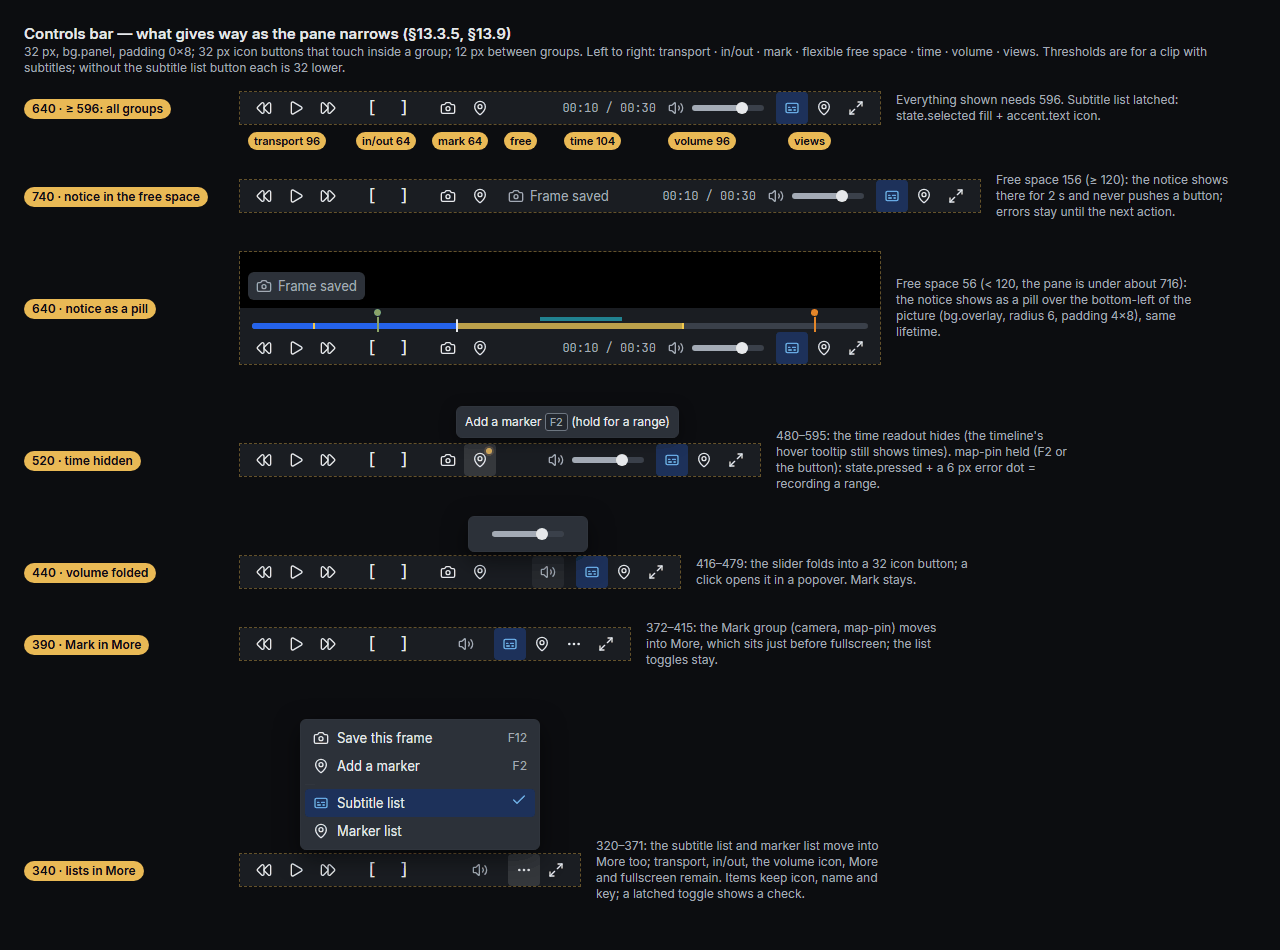
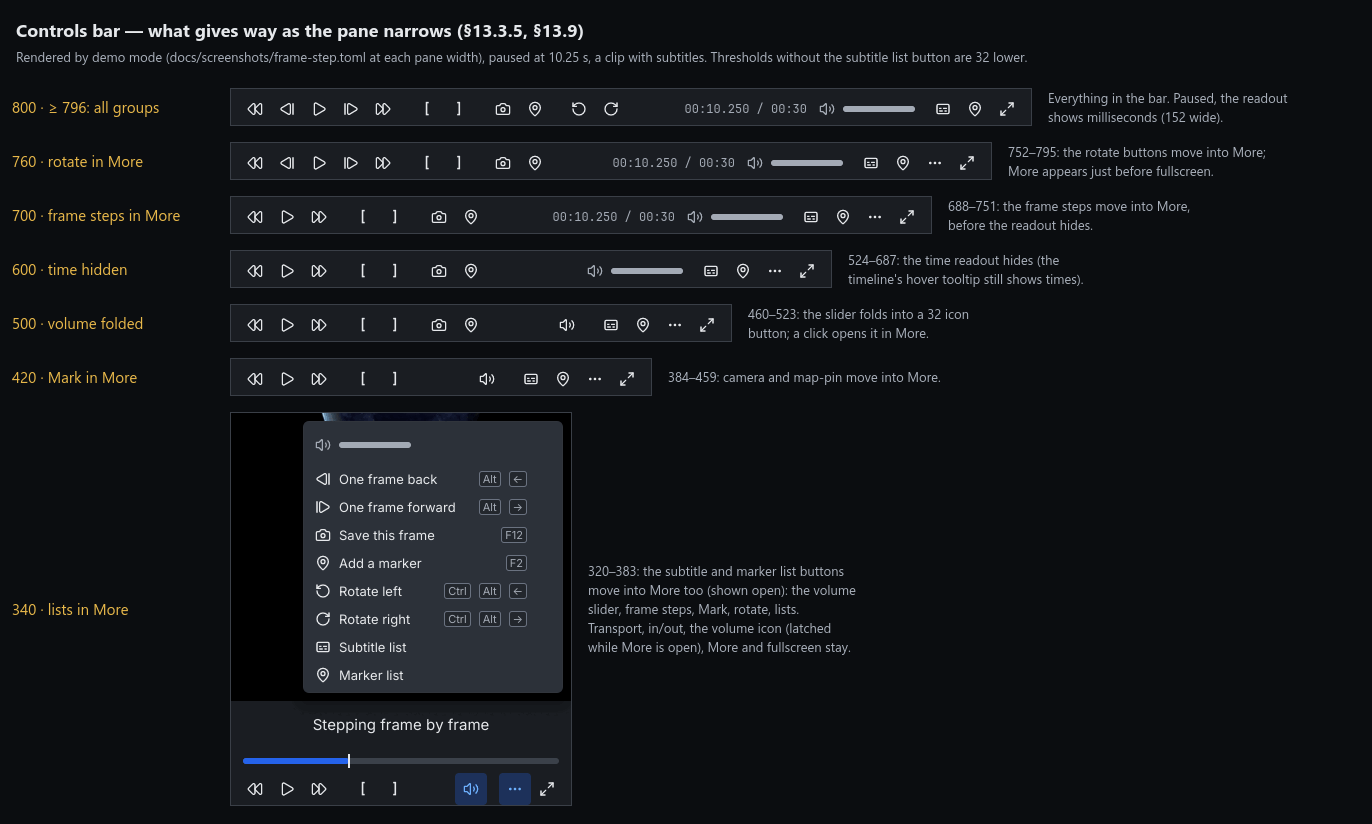
Frame step review round 2: readout fits hours, exact stepped frames
- The time readout is 152 wide: the longest it shows, a clip of hours
  paused (`1:02:05.250 / 1:30:00`), fits; a test pins it and the fold
  widths move by 24.
- The end of the clip sets the playhead, so `]` and the readout take where
  it really ended.
- A frame a step event showed counts as starting where it says, so a step
  back from it is one backward seek, not two.
- Design system: the controls bar image is rendered by demo mode at each
  fold step; Alt+arrows belong to frame steps (#62's key is open); the step
  icons are in the icon table.

diff --git a/src/features/media_viewer/video/state.rs b/src/features/media_viewer/video/state.rs
@@ -71,6 +71,8 @@ impl RangePlay {
 struct PendingStep {
     from: ShownFrame,
     step: video_controls::FrameStep,
+    /// Sent as a step event: the frame it shows starts where it says.
+    by_step_event: bool,
     since: Instant,
 }
 
@@ -141,6 +143,9 @@ pub struct VideoPlayerState {
     /// clears it. Kept here rather than read from the frame on screen: while the backward seek
     /// is still on its way there is none, and playing then would play the clip backward.
     reversed: bool,
+    /// The frame the last step event showed, as the sink reports it; see
+    /// [`frame_step::stepped_onto`].
+    stepped_onto: Option<ShownFrame>,
 }
 
 impl Default for VideoPlayerState {
@@ -175,6 +180,7 @@ impl Default for VideoPlayerState {
             loading_ticks: 0,
             frame_step: None,
             reversed: false,
+            stepped_onto: None,
         }
     }
 }
@@ -395,6 +401,11 @@ impl VideoPlayerState {
                 // The pipeline stays in Playing at the end; the next play restarts the stream.
                 self.play_until = None;
                 self.paused = true;
+                // The ticks stop with playback: the playhead is the end, not the last tick, so
+                // `]` and the readout take where the clip really ended.
+                if let Some(video) = self.current_video.as_ref() {
+                    self.position = query_position(video).unwrap_or_else(|| video.duration());
+                }
                 Task::done(Message::Controls(video_controls::Message::SetPlaying(
                     false,
                 )))
@@ -765,10 +776,14 @@ impl VideoPlayerState {
         if self.frame_step.is_some() {
             return paused;
         }
-        let Some(frame) = shown_frame(video) else {
+        let Some(mut frame) = shown_frame(video) else {
             return paused;
         };
-        let moved = match frame_step::step_target(frame, step, video.duration()) {
+        if self.stepped_onto == Some(frame) {
+            frame = frame_step::stepped_onto(frame);
+        }
+        let target = frame_step::step_target(frame, step, video.duration());
+        let moved = match target {
             StepTarget::Stay => return paused,
             StepTarget::NextBuffer => {
                 video.step_one_frame();
@@ -785,6 +800,7 @@ impl VideoPlayerState {
         self.frame_step = Some(PendingStep {
             from: frame,
             step,
+            by_step_event: target == StepTarget::NextBuffer,
             since: Instant::now(),
         });
         Task::batch([paused, moved])
@@ -814,6 +830,7 @@ impl VideoPlayerState {
             self.position = frame_step::frame_position(pending.from);
             return self.follow_cue(false);
         };
+        self.stepped_onto = pending.by_step_event.then_some(frame);
         self.position = frame_step::frame_position(frame);
         let follow = self.follow_cue(false);
         if frame_step::only_found_the_start(pending.from, frame) {

diff --git a/src/features/media_viewer/video/frame_step.rs b/src/features/media_viewer/video/frame_step.rs
@@ -72,6 +72,16 @@ pub fn step_target(frame: ShownFrame, step: FrameStep, clip: Duration) -> StepTa
     }
 }
 
+/// A frame a step event showed: its timestamp is its true start. The sink reports a segment
+/// starting there, as after a forward seek that may have clipped it, so it would read as
+/// inexact and a step back from it would first seek to find its start.
+pub fn stepped_onto(frame: ShownFrame) -> ShownFrame {
+    ShownFrame {
+        start_exact: true,
+        ..frame
+    }
+}
+
 /// Whether a step from `from` that showed `to` only found `from`'s true start (the first half
 /// of a step back): the same frame, so the step goes on.
 pub fn only_found_the_start(from: ShownFrame, to: ShownFrame) -> bool {
@@ -139,15 +149,16 @@ mod tests {
             })
         }
 
-        /// A step event from `frame`: the next frame, whole.
+        /// A step event from `frame`: the next frame, whole, reported with a segment starting
+        /// at it (so inexact), and marked exact the way the player does.
         fn next(&self, frame: ShownFrame) -> ShownFrame {
             let (start, end) = self.bounds(self.index_of(frame) + 1);
-            ShownFrame {
+            stepped_onto(ShownFrame {
                 start,
                 duration: Some(end - start),
-                start_exact: true,
+                start_exact: false,
                 reversed: false,
-            }
+            })
         }
 
         /// One step as the player takes it, including the second half of a step back.
@@ -270,6 +281,26 @@ mod tests {
         assert_eq!(
             step_target(reversed, FrameStep::Forward, clip),
             StepTarget::Forward(Duration::from_millis(1_040))
+        );
+    }
+
+    /// After a step forward, a step back is one backward seek, not two.
+    #[test]
+    fn back_after_a_step_forward_seeks_once() {
+        let clip = constant();
+        let shown = clip.next(clip.forward(clip.starts[3]));
+        assert_eq!(
+            step_target(shown, FrameStep::Back, clip.end),
+            StepTarget::Backward(clip.starts[4])
+        );
+        let reported = ShownFrame {
+            start_exact: false,
+            ..shown
+        };
+        assert_eq!(
+            step_target(reported, FrameStep::Back, clip.end),
+            StepTarget::Backward(clip.bounds(4).1),
+            "as the sink reports it, the frame would first be found again"
         );
     }
 

diff --git a/src/ui/tokens/region.rs b/src/ui/tokens/region.rs
@@ -46,9 +46,9 @@ pub const CAPTION_PADDING_Y: f32 = SPACE_S;
 pub const CAPTION_PADDING_X: f32 = 18.0;
 /// The volume slider.
 pub const VOLUME_WIDTH: f32 = 72.0;
-/// The time readout: a fixed width so it never moves. Fits `00:10.250 / 00:30` (paused, with
-/// milliseconds) and `1:02:05 / 1:30:00`: 17 mono characters.
-pub const TIME_READOUT_WIDTH: f32 = 128.0;
+/// The time readout: a fixed width so it never moves. Fits the longest it shows, a clip of hours
+/// paused (`1:02:05.250 / 1:30:00`): 21 mono characters, 151.2 px.
+pub const TIME_READOUT_WIDTH: f32 = 152.0;
 /// The notices' slot in the controls bar needs this much, otherwise they float over the picture.
 pub const NOTICE_SLOT_MIN_WIDTH: f32 = 120.0;
 /// A marker row's color dot.

diff --git a/src/features/video_controls/view.rs b/src/features/video_controls/view.rs
@@ -561,6 +561,18 @@ mod tests {
         assert_eq!(precise_clock(-1.0), "00:00.000");
     }
 
+    /// The longest readout, a clip of hours paused, fits the readout's fixed width.
+    #[test]
+    fn the_longest_readout_fits_its_width() {
+        let longest = format!("{} / {}", precise_clock(35_999.5), clock(35_999.0));
+        assert_eq!(longest, "9:59:59.500 / 9:59:59");
+        let width = longest.chars().count() as f32 * MONO_CHAR_WIDTH;
+        assert!(
+            width <= TIME_READOUT_WIDTH,
+            "{width} > {TIME_READOUT_WIDTH}"
+        );
+    }
+
     #[test]
     fn a_held_button_sends_its_press_and_release_from_more() {
         let [_, marker] = mark(true, false);

diff --git a/src/features/video_controls/fold.rs b/src/features/video_controls/fold.rs
@@ -155,7 +155,7 @@ mod tests {
     #[test]
     fn the_fold_widths_match_the_design_system() {
         let widths: Vec<f32> = Fold::steps().iter().map(|fold| fold.width(2)).collect();
-        assert_eq!(widths, [772.0, 728.0, 664.0, 524.0, 460.0, 384.0, 320.0]);
+        assert_eq!(widths, [796.0, 752.0, 688.0, 524.0, 460.0, 384.0, 320.0]);
     }
 
     #[test]

diff --git a/docs/design/design-system.md b/docs/design/design-system.md
@@ -329,6 +329,7 @@ destructive (BIR: "separate dangerous buttons with extra distance").
 | Today | Lucide | | Today | Lucide |
 |---|---|---|---|---|
 | ◀ ▶ (file) | `chevron-left` `chevron-right` | | ⏪ ⏩ | `rewind` `fast-forward` |
+| ⏮ ⏭ (frame steps, #162) | `step-back` `step-forward` | | | |
 | ⊙ | `locate-fixed` | | ▶ ⏸ | `play` `pause` |
 | 📂 | `folder-open` | | 📷 | `camera` |
 | ⚙ | `settings` | | 📍 | `map-pin` |
@@ -1068,7 +1069,7 @@ left to right, with the widths §13.9 folds by:
 | In/out (64) | text `[` "Set the in point `[`" · text `]` "Set the out point `]`" (text, as #44 says) |
 | Mark (64) | `camera` "Save this frame `F12`" · `map-pin` "Add a marker `F2` (hold for a range)"; disabled with the reason "This file cannot hold markers" |
 | Free space (flexible) | empty; notices (§13.2) show here when it is at least 120 wide, cut with "…" and the full text in the tooltip |
-| Time (128, #59) | `00:10 / 00:30` in `mono` `text.secondary`; paused, the playhead shows milliseconds, `00:10.250 / 00:30` (the exact time of a stepped frame, #162); a fixed width (17 characters) so it never moves |
+| Time (152, #59) | `00:10 / 00:30` in `mono` `text.secondary`; paused, the playhead shows milliseconds, `00:10.250 / 00:30` (the exact time of a stepped frame, #162); a fixed width (21 characters, the longest it shows: `1:02:05.250 / 1:30:00`) so it never moves |
 | Volume (96) | `volume-2` icon 16 in `text.secondary` (not a button), 8 px, a 72 px slider (§8.8); folded: a 32 px icon button `volume-2` that opens the slider in a popover |
 | Views (96) | `captions` "Subtitle list" (only with subtitles) · `map-pin` "Marker list" with "`Shift`+`F1` / `Shift`+`F3` jump between markers" on its second line · **More** `ellipsis` (only when something is folded) · `maximize-2`/`minimize-2` "Full screen `F5`" |
 
@@ -1085,7 +1086,7 @@ left to right, with the widths §13.9 folds by:
 - **Notice** (§13.2): an inline status in the free space, `text.secondary`, with an icon of its
   kind: `camera` "Frame saved", `trash` "Marker deleted", `circle-alert` in `error` "Markers not
   saved: the file is read-only or in use". It never pushes a button. When the free space is under
-  120 (the pane is under about 716 with every group shown), the notice shows instead as a pill over
+  120 (the pane is under about 916 with every group shown), the notice shows instead as a pill over
   the bottom-left of the picture (`bg.overlay`, radius 6, padding 4×8), with the same lifetime.
 - **Narrow pane:** what gives way and when is in §13.9. The **More** button (`ellipsis`) sits just
   before fullscreen; its menu opens upward, lists each moved control with its icon, name and key,
@@ -1315,7 +1316,7 @@ handle, comment. Columns are separated by the gaps of §5.
 
 | Key | What it does (tags area; all blocked in batch mode) |
 |---|---|
-| arrows | move the cursor (wrapping); proposed for #62: `Alt`+`←`/`→` moves the cursor tag in the folder order |
+| arrows | move the cursor (wrapping); `Alt`+`←`/`→` step the video one frame (#162), so #62's key for moving the cursor tag in the folder order is still to be chosen |
 | `Shift`+`Space` | check or uncheck the cursor tag (or the first match of the search) |
 | `Enter` | add an unsaved tag to the folder's tags; on a text that is no tag, create it |
 | `Delete` | delete the cursor tag from the folder (undoable) |
@@ -1656,17 +1657,17 @@ minimum.
 **Video pane** (min 320, no max)
 
 The controls bar folds by the widths of §13.3.5 (`video_controls/fold.rs`, whose test pins these
-numbers): padding 16 + Transport 160 + In/out 64 + Mark 64 + Rotate 64 + Time 128 + Volume 96 +
-Views 96 + seven gaps of 12 (the free space counts as one more item of the row) = **772** with
+numbers): padding 16 + Transport 160 + In/out 64 + Mark 64 + Rotate 64 + Time 152 + Volume 96 +
+Views 96 + seven gaps of 12 (the free space counts as one more item of the row) = **796** with
 everything shown and a clip with subtitles. Each step below takes away what the previous width no
 longer fits:
 
 | Pane width | Controls bar | Needs |
 |---|---|---|
-| ≥ 772 | all groups (§13.3.5) | 772 |
-| 728–771 | ↺ ↻ move into **More** (More appears just before fullscreen) | 772 − 64 − 12 + 32 = 728 |
-| 664–727 | also the frame steps (`step-back`, `step-forward`) move into **More**, before the readout hides: stepping, the readout shows the frame's time | 728 − 64 = 664 |
-| 524–663 | also the time readout hides (the timeline's hover tooltip still shows times) | 664 − 128 − 12 = 524 |
+| ≥ 796 | all groups (§13.3.5) | 796 |
+| 752–795 | ↺ ↻ move into **More** (More appears just before fullscreen) | 796 − 64 − 12 + 32 = 752 |
+| 688–751 | also the frame steps (`step-back`, `step-forward`) move into **More**, before the readout hides: stepping, the readout shows the frame's time | 752 − 64 = 688 |
+| 524–687 | also the time readout hides (the timeline's hover tooltip still shows times) | 688 − 152 − 12 = 524 |
 | 460–523 | also the volume slider folds into its icon button | 524 − 64 = 460 |
 | 384–459 | also the Mark group (`camera`, `map-pin`) moves into **More** | 460 − 64 − 12 = 384 |
 | 320–383 | also the subtitle and marker list buttons move into **More**; transport, in/out, the volume icon, More and fullscreen stay | 384 − 64 = 320 |
